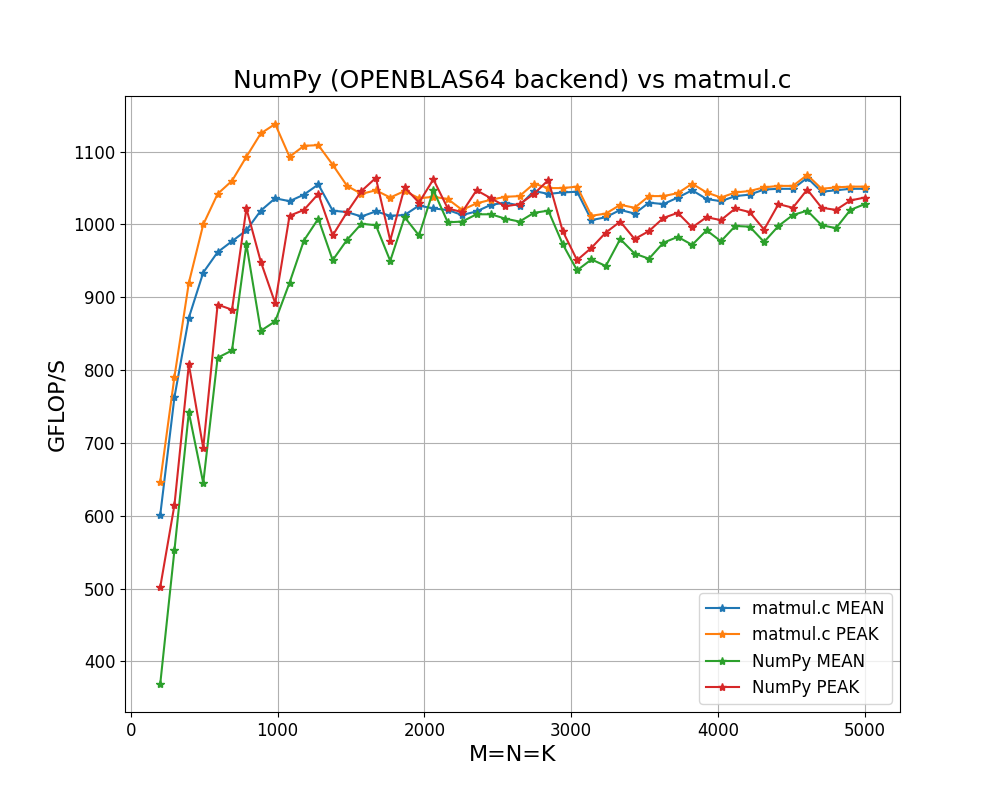
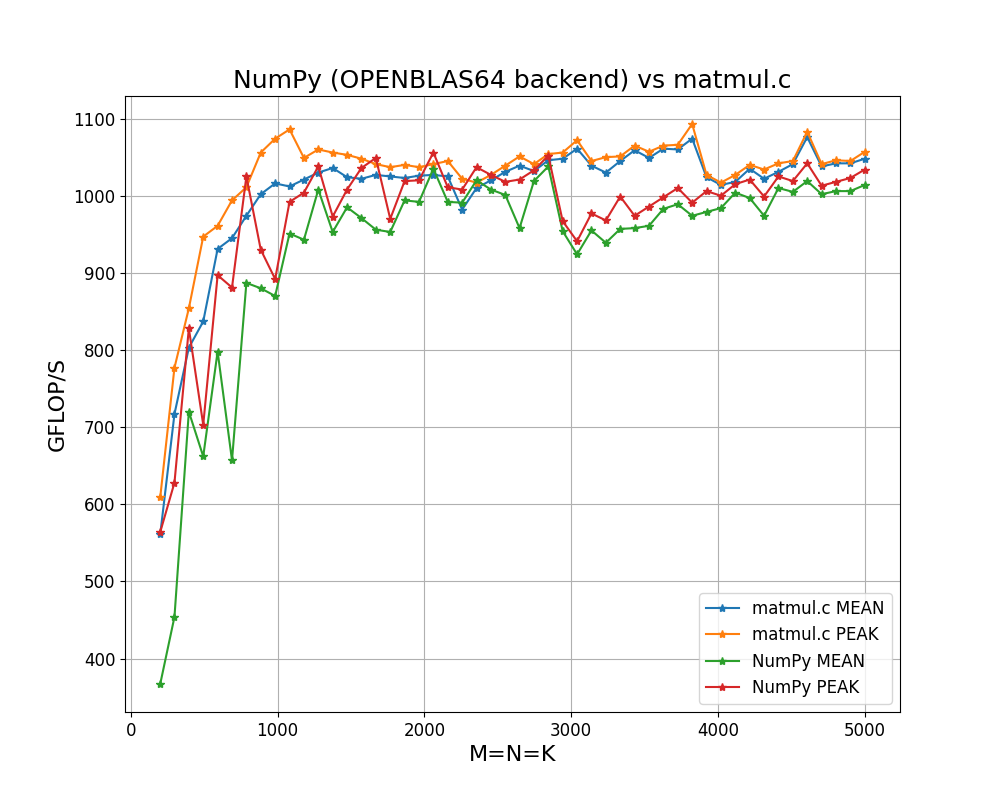
nthreads=8

diff --git a/tutorial/matmul_parallel.c b/tutorial/matmul_parallel.c
@@ -10,10 +10,10 @@
 
 #define MR 16
 #define NR 6
-#define NTHREADS 16
+#define NTHREADS 8
 
-#define MC MR* NTHREADS * 4
-#define NC NR* NTHREADS * 32
+#define MC MR* NTHREADS * 1
+#define NC NR* NTHREADS * 80
 #define KC 1000
 
 #ifndef MDIM

diff --git a/tutorial/benchmark_mt.c b/tutorial/benchmark_mt.c
@@ -9,9 +9,9 @@
 #define MR 16
 #define NR 6
 
-#define NTHREADS 16
-#define MC MR* NTHREADS * 4
-#define NC NR* NTHREADS * 32
+#define NTHREADS 8
+#define MC MR* NTHREADS * 1
+#define NC NR* NTHREADS * 80
 #define KC 1000
 
 #ifndef NITER

diff --git a/README.md b/README.md
@@ -72,8 +72,3 @@ python benchmark_numpy.py
 python plot_benchmark.py
 ```
 If not manually specified, default values are `MINSIZE=200`, `MAXSIZE=5000`, `NPTS=50`, `WARMUP=15`.
-
-**CPU utilization**:
-<p align="center">
-  <img src="assets/htop.png" alt="htop" width="80%">
-</p>
